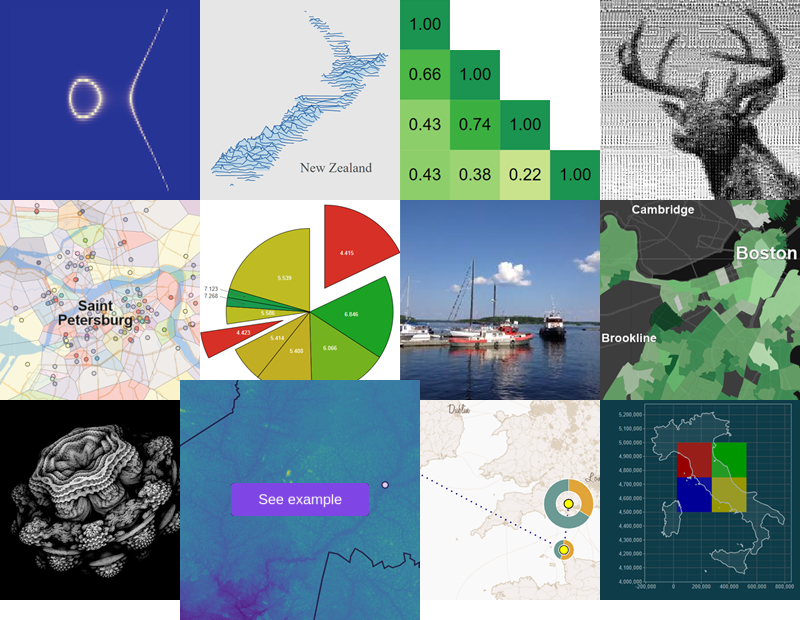
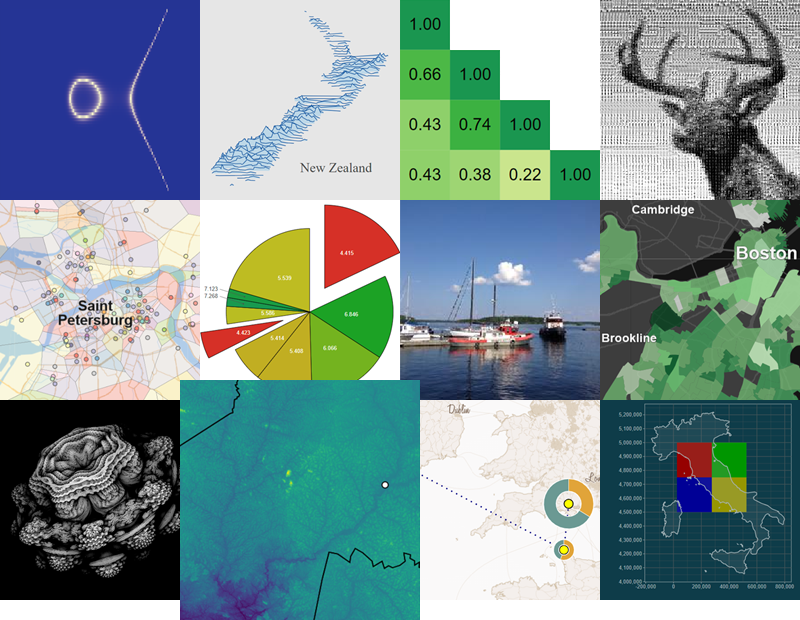
Restore gallery preview and add new links to the gallery from the landing page.

diff --git a/source/_templates/navbar-nav.html b/source/_templates/navbar-nav.html
@@ -12,6 +12,11 @@
         </a>
       </li>
       <li class="nav-item">
+        <a class="nav-link nav-internal" href="{{ pathto('python/pages/gallery') }}">
+          Gallery
+        </a>
+      </li>
+      <li class="nav-item">
         <a class="nav-link nav-internal" href="{{ pathto('python/pages/api') }}">
           API
         </a>

diff --git a/source/index.rst b/source/index.rst
@@ -43,7 +43,7 @@
 
             User Guide
 
-        :doc:`Visit the API </python/pages/api>`
+        :doc:`Visit the Gallery </python/pages/gallery>`
 
     .. grid-item-card::
 
